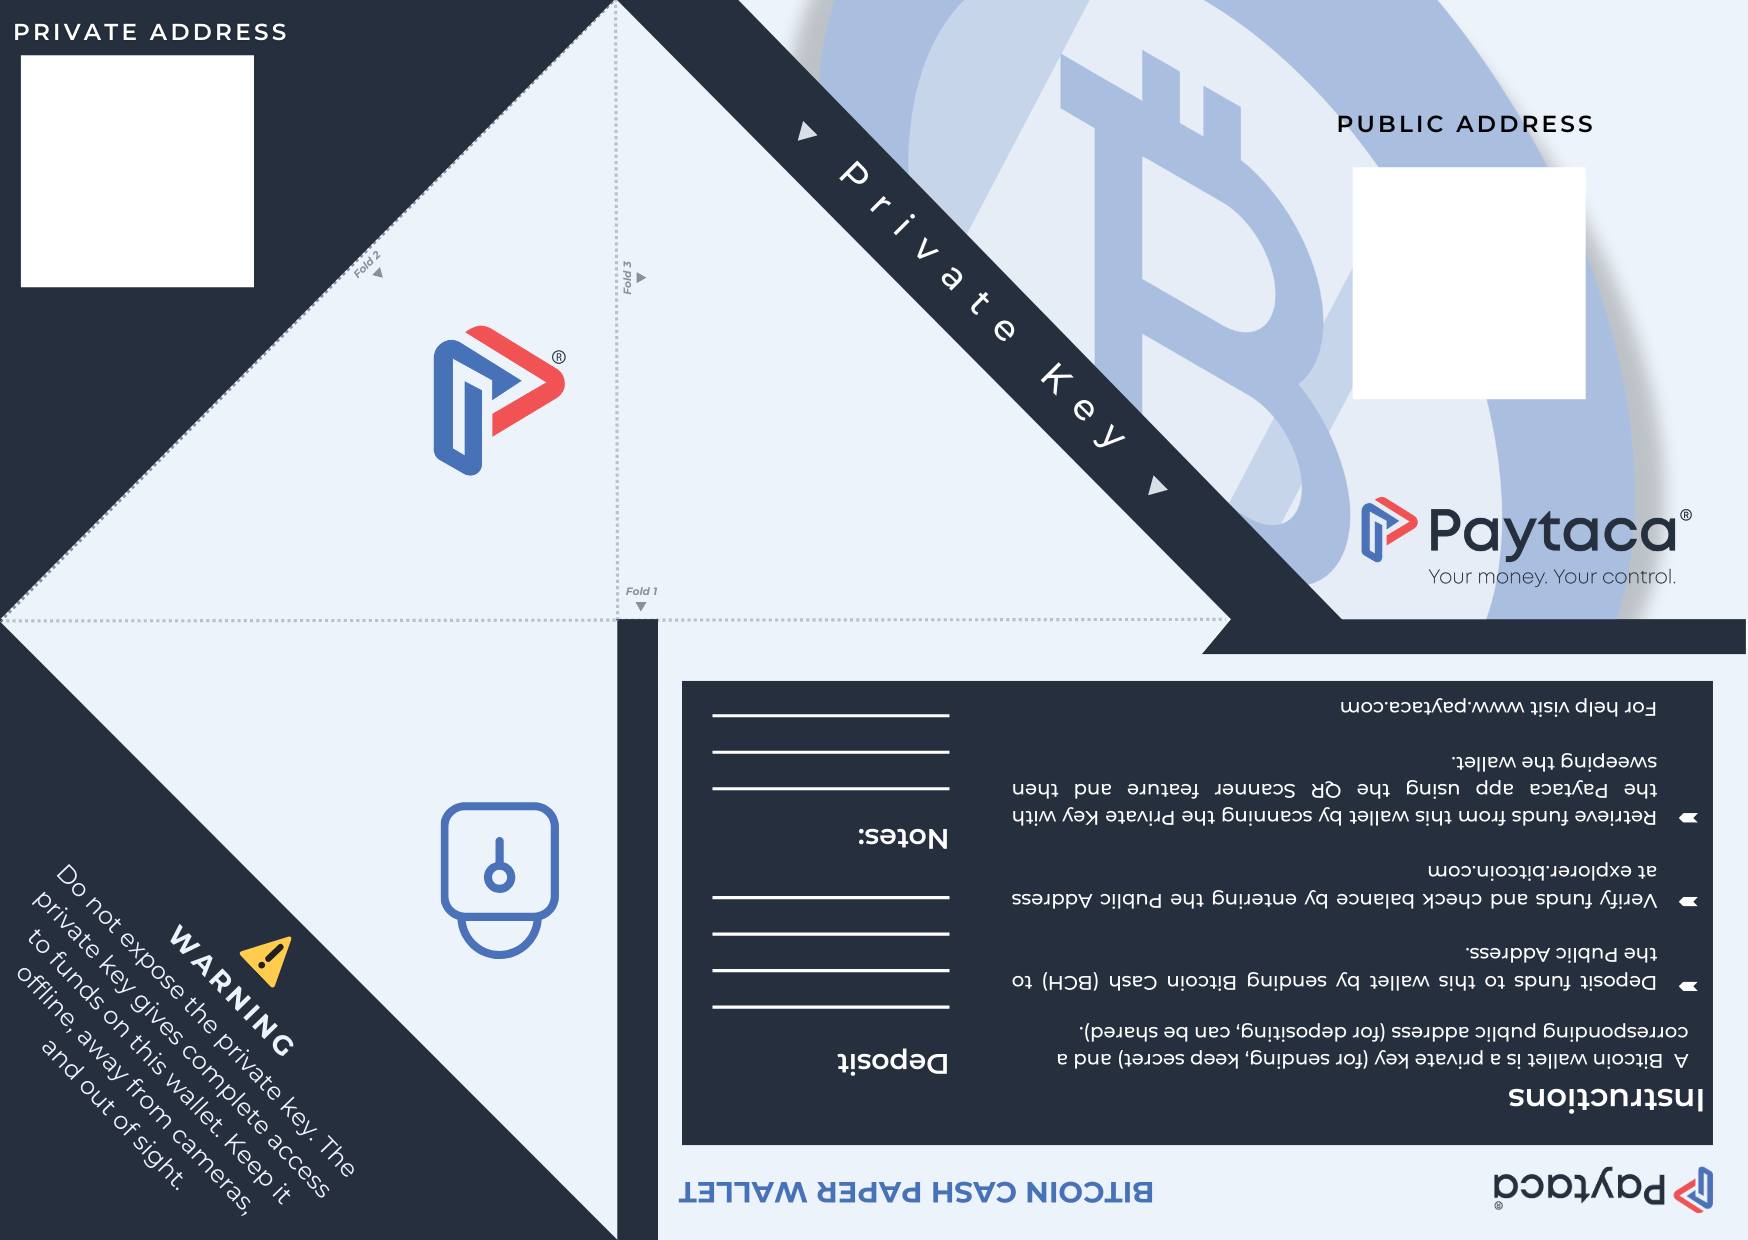
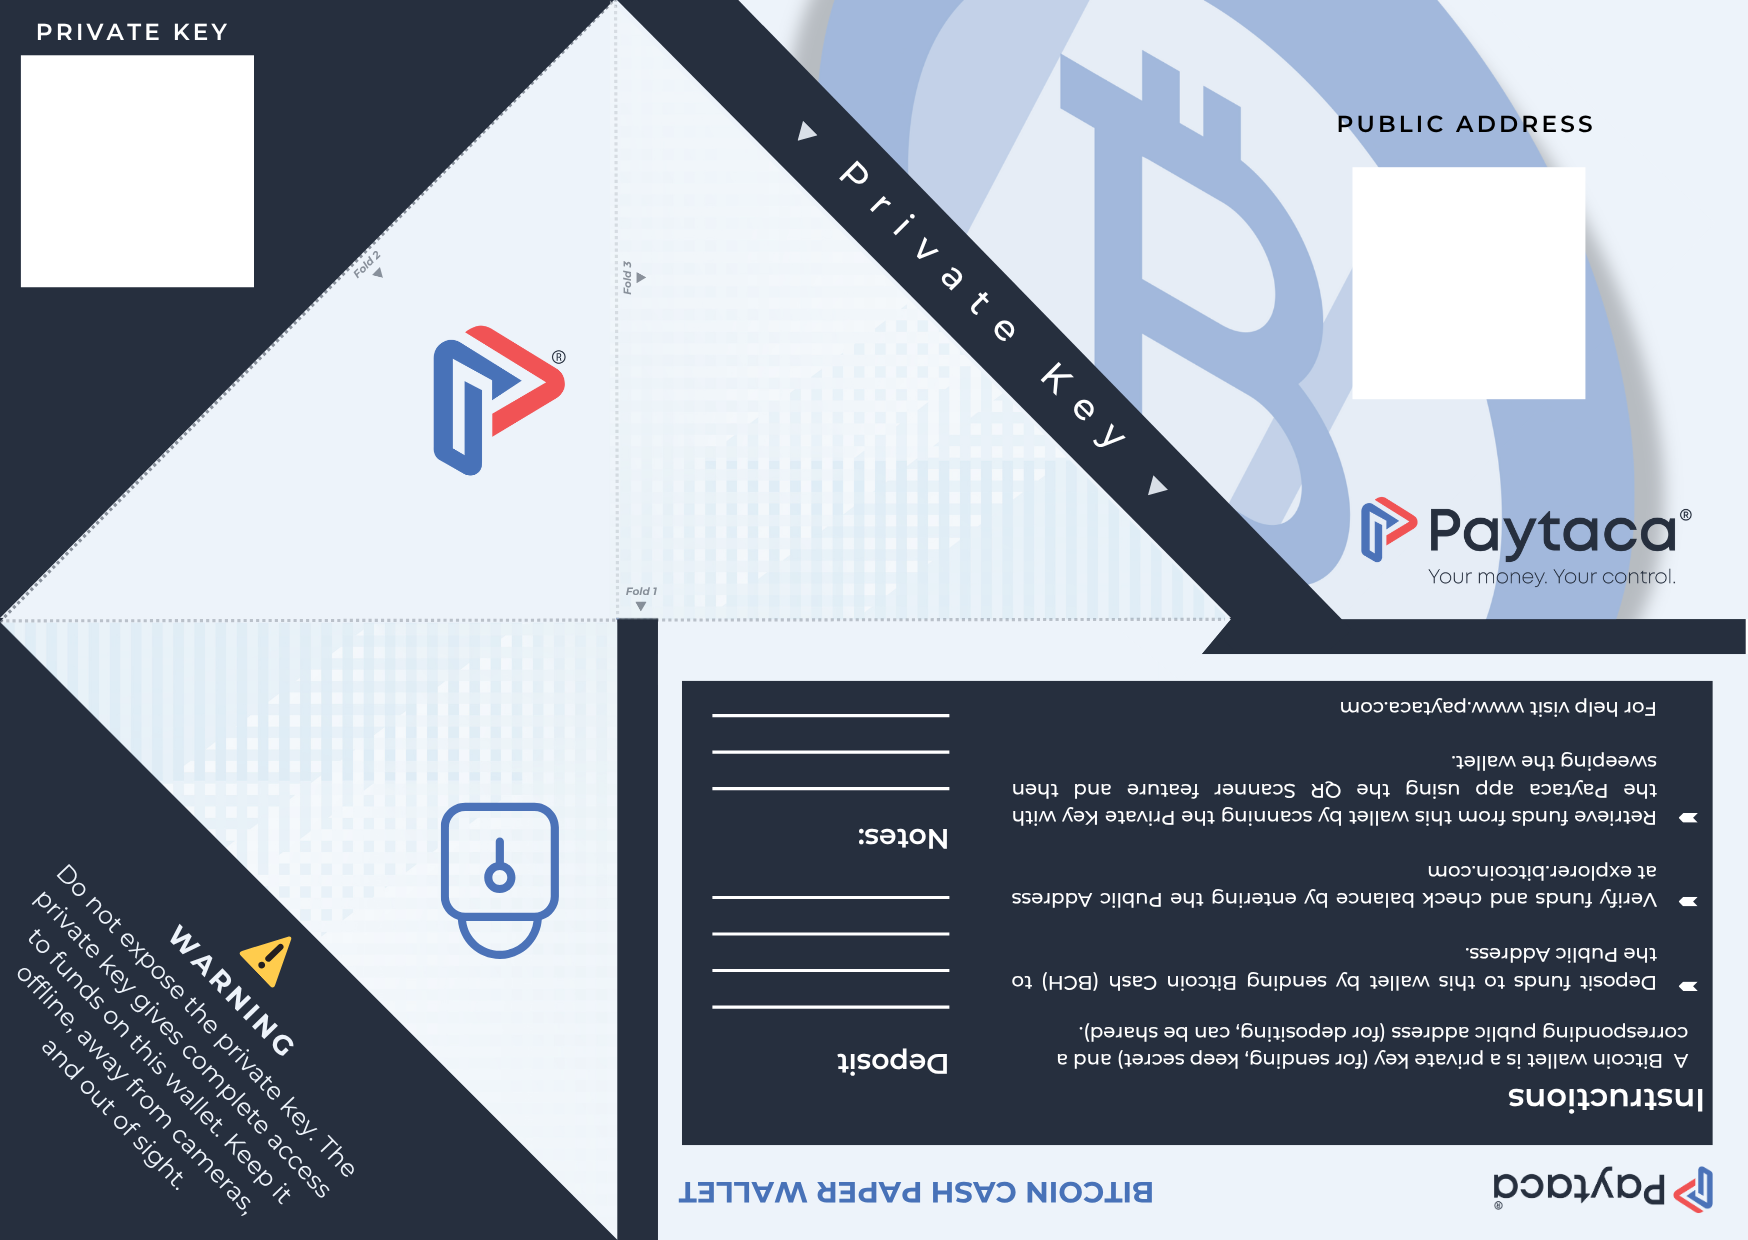
all the paperwallet has been change from public address to public key

diff --git a/src/css/quasar.variables.scss b/src/css/quasar.variables.scss
@@ -23,3 +23,46 @@ $positive  : #21BA45;
 $negative  : #C10015;
 $info      : #31CCEC;
 $warning   : #F2C037;
+.footer {
+  background-color:rgb(239, 246, 255);
+  color: #333;
+  text-align: center;
+  padding: 1rem 1.5rem;
+  margin-top: 2rem;
+  font-size: clamp(19px, 1.2vw, 16px);
+  border-top: 1px solid #080808;
+  width: 100%;
+  max-width: 100%;
+  height: 50%;
+  max-height: 100%;
+}
+
+.footer.dark-mode {
+  background-color: #1e1e1e;
+  color: #ccc;
+  border-top: 1px solid #444;
+}
+
+.footer-content {
+  display: flex;
+  flex-direction: column;
+  gap: 0.5rem;
+  align-items: center;
+  justify-content: center;
+}
+
+.footer-links {
+  display: flex;
+  gap: 1rem;
+  flex-wrap: wrap;
+}
+
+.footer-links a {
+  text-decoration: none;
+  color: inherit;
+  transition: color 0.3s ease;
+}
+
+.footer-links a:hover {
+  color: #1976d2;
+}
